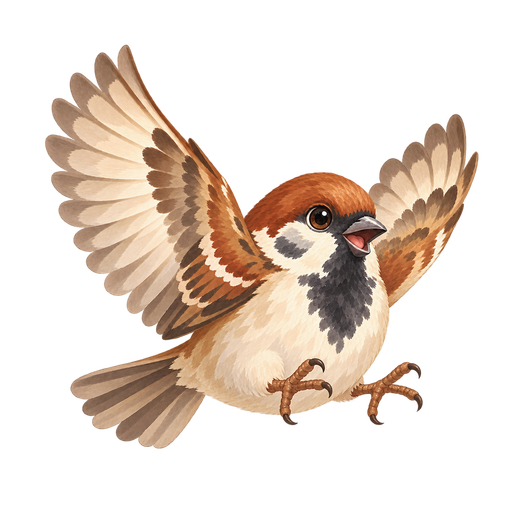
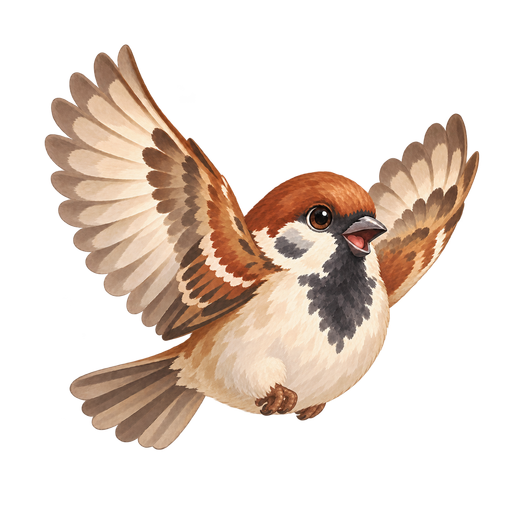
0.1.51: the welcome sparrow tucks its feet
Monosplice-Source: 03db29d9bc7aa1f60c43b36424558c1ecd32bce3

diff --git a/CHANGELOG.md b/CHANGELOG.md
@@ -14,6 +14,15 @@ versions that release shipped with.
 
 ## [Unreleased]
 
+## [0.1.51] — 2026-09-22
+
+### Changed
+
+- The wizard's welcome sparrow flies with its feet tucked.
+
+Client floor unchanged: MIN 0.1.22, RECOMMENDED 0.1.50.
+
+
 ## [0.1.50] — 2026-09-22
 
 ### Changed
